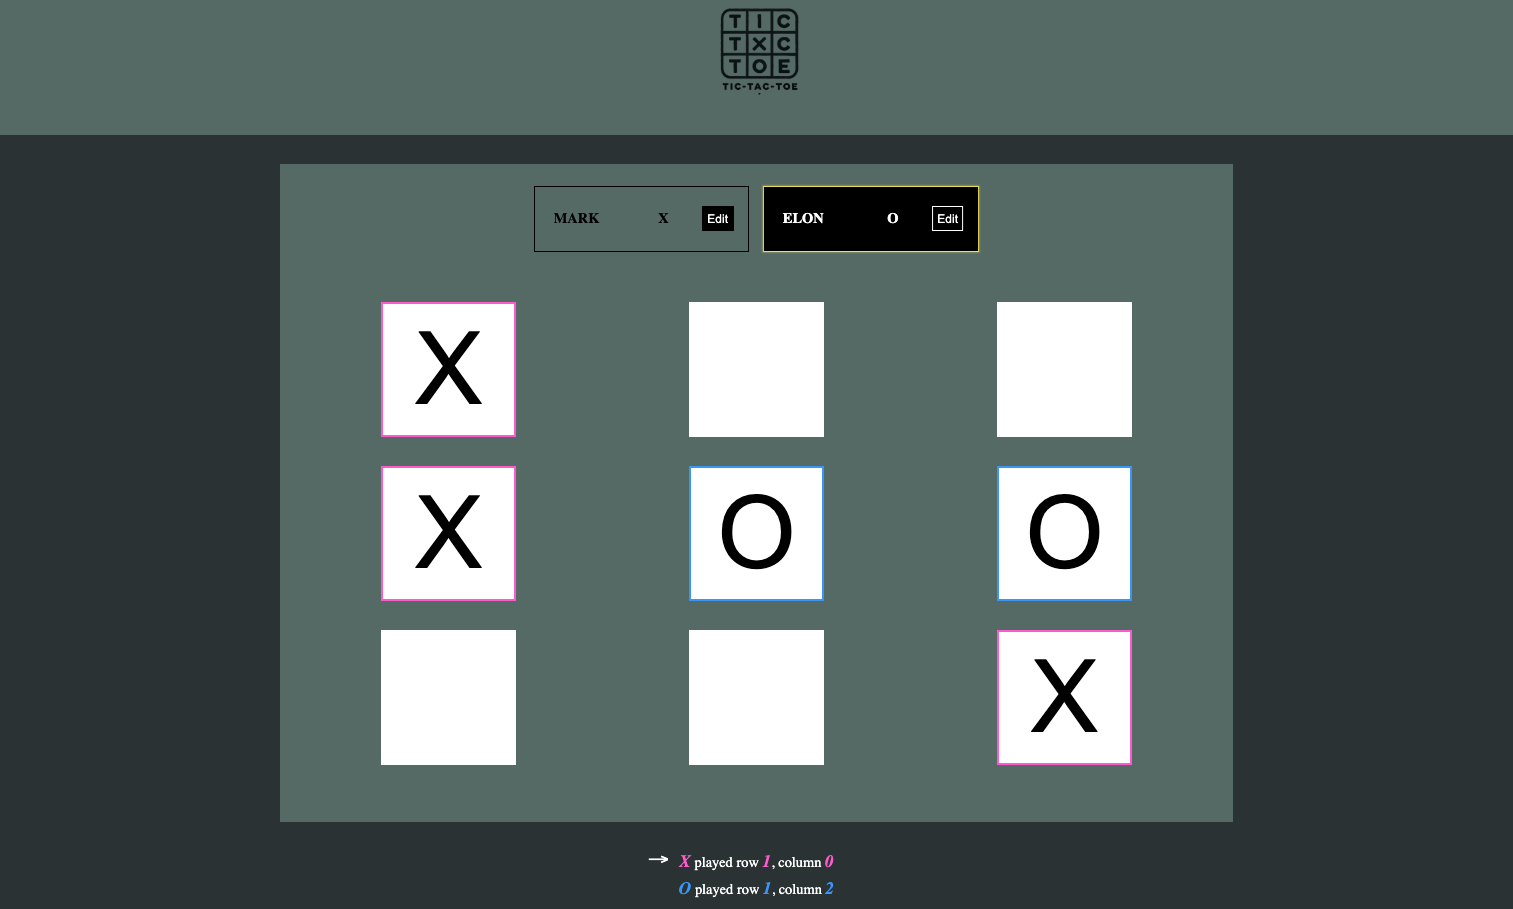
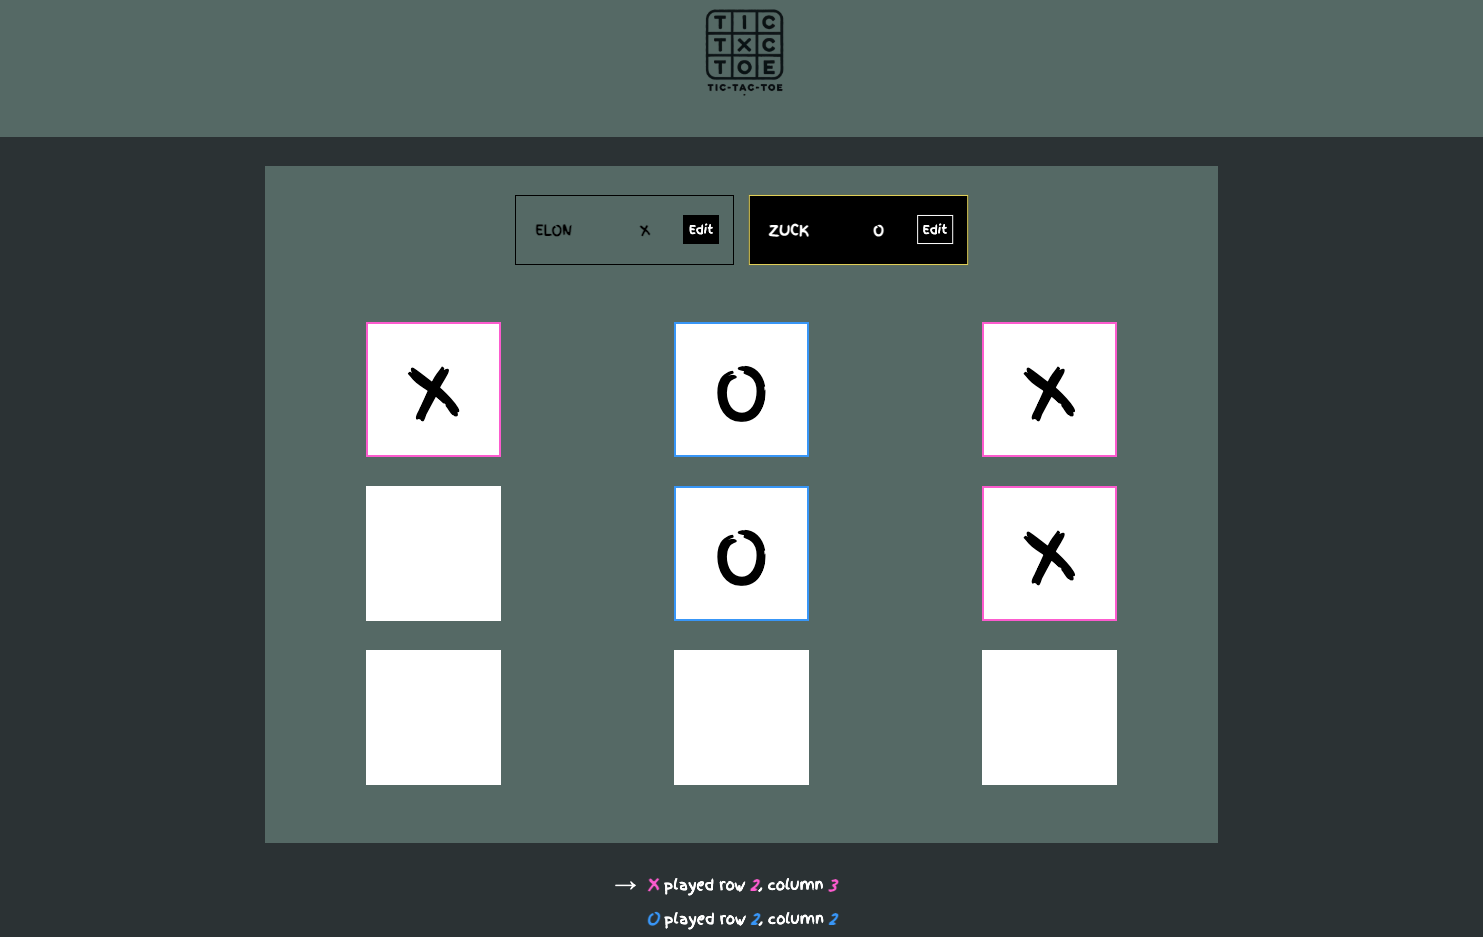
Update screenshots, readme and styles

diff --git a/src/components/Log/Log.css b/src/components/Log/Log.css
@@ -20,7 +20,7 @@
   color: var(--white);
   left: -35px;
   top: 50%;
-  transform: translateY(-50%);
+  transform: translateY(calc(-50% - 0.1rem));
 }
 
 #logs span {

diff --git a/README.md b/README.md
@@ -2,7 +2,10 @@
 
 This is a simple Tic Tac Toe game built using React and TypeScript. The game features a player vs player mode, where two players can take turns to place their marks (X and O) on the board. The game automatically detects when there is a winner or a draw and allows players to reset the game. [Click here to play live.](https://paologhidoni.github.io/tictactoe/)
 
-![Tic Tac Toe Screenshot](./public/tictactoe.png)
+<div>
+  <img src="./public/tictactoe.png" style="max-width: 65%; height: auto;" />
+  <img src="./public/tictactoe-sm.png" style="max-width: 20%; height: auto; float: right" />
+</div>
 
 ## Technologies Used
 
